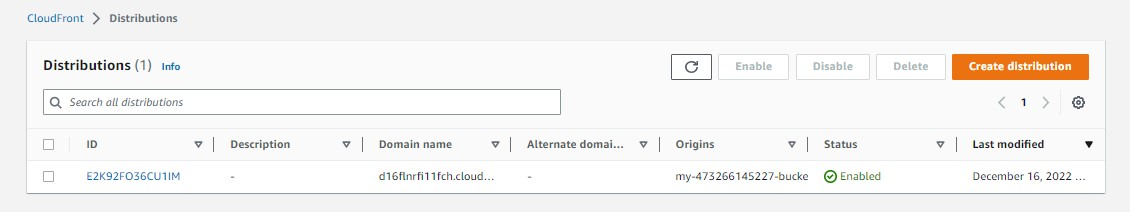
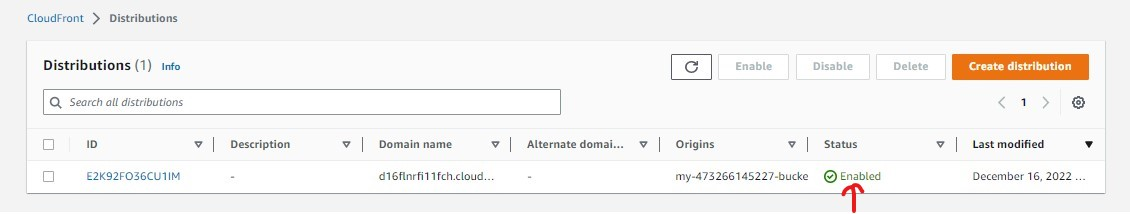
Edited the README.md file

diff --git a/README.md b/README.md
@@ -125,9 +125,12 @@ Redirect all HTTP request to HTTPS
 
 ![p21](project-image/p21.jpg)
 
-We can view our newly created OAI and see details such as distribution domain name, amazon resource name (arn), and last modified.
-
+This is the newly created origin access identity (OAI) showing the status as enabled  
+  
 ![p22](project-image/p22.jpg)  
+
+We can see details such as distribution domain name, amazon resource name (arn), and last modified.
+  
 ![p25](./project-image/p25%20cloudfront%20details.jpg)
 
 Once the status of your distribution changes from “Deploying” to “Deployed/Enabled”, copy the endpoint URL for your CloudFront distribution found in the “Domain Name” (https://d16flnrfi11fch.cloudfront.net) column and access it via a web browser.
